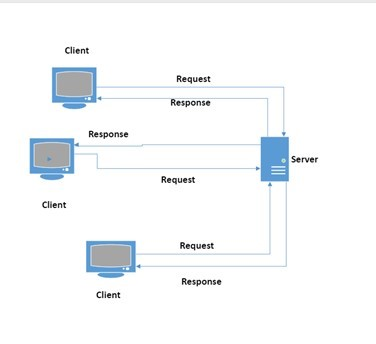
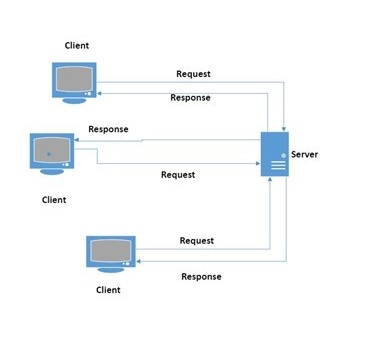
technische_grundlagen_text
Text zu technischen Grundlagen hinzugefügt, Bild zu clientserver nur leicht geändert, interaktive Elemente Link zu RSA gebaut und rsa Startseite under construction als Lückenfüller

diff --git a/JavaSpringVorlage-main/src/main/resources/templates/technische_grundlagen.html b/JavaSpringVorlage-main/src/main/resources/templates/technische_grundlagen.html
@@ -30,8 +30,7 @@
 <div class="row">
     <div class="col s6">
         <p>
-            Lorem ipsum dolor sit amet consectetur adipisicing elit. Neque soluta pariatur eligendi, iusto magnam inventore minus autem sunt nostrum illo cumque tempore ullam, consequuntur consequatur a vel officia dolores sit.
-            
+            Der Client sendet eine Anfrage (Request) an einen Sever der Sever antwortet dann (Response). Der Client sendet die Request zum Beispiel in Form einer Webadresse (http-Request) der Server antwortet dann mit HTML oder CSS-Dateien, die vom Client verarbeitet werden und der dann die Website anzeigt.
         </p>
     </div>
     <div class="col s6">
@@ -50,7 +49,11 @@
     <div class="col s6">
         <p>
             <!--Hier kommt der Text rein, lorem ipsum ist nur Fülltext-->
-        Lorem ipsum dolor sit amet consectetur adipisicing elit. Neque soluta pariatur eligendi, iusto magnam inventore minus autem sunt nostrum illo cumque tempore ullam, consequuntur consequatur a vel officia dolores sit.
+            Es gibt zwei Hauptversionen von IP-Adressen, die in Netzwerken verwendet werden: 
+
+            IPv4 (Internet Protocol Version 4): Dies ist die ältere Version von IP-Adressen und verwendet eine 32-Bit-Adresse, um Netzwerkgeräte zu identifizieren. Sie besteht aus vier durch Punkte getrennten Zahlen (z.B. 192.168.1.1). 
+            
+            IPv6 (Internet Protocol Version 6): Dies ist die neuere Version von IP-Adressen, entwickelt, um den wachsenden Bedarf an Adressen zu bewältigen. IPv6 verwendet 128-Bit-Adressen, die in hexadezimaler Form dargestellt werden (z.B. 2001:0db8:85a3:0000:0000:8a2e:0370:7334). 
             
         </p>
     </div>
@@ -65,8 +68,8 @@
     <div class="col s6">
         <p>
             <!--Hier kommt der Text rein, lorem ipsum ist nur Fülltext-->
-        Lorem ipsum dolor sit amet consectetur adipisicing elit. Neque soluta pariatur eligendi, iusto magnam inventore minus autem sunt nostrum illo cumque tempore ullam, consequuntur consequatur a vel officia dolores sit.
-            
+            In Netzwerken bezieht sich das Wort "Protokoll" auf eine Reihe von Regeln und Vereinbarungen, die festlegen, wie Daten zwischen Geräten in einem Netzwerk ausgetauscht werden. Protokolle definieren das Format der Daten, die Reihenfolge der Übertragung, Fehlerbehandlung und andere Aspekte der Kommunikation. 
+            Beispiele: HTTP (Hypertext Transfer Protocol) oder TCP (Transmission Control Protocol)
         </p>
     </div>
     <div class="col s6">
@@ -82,8 +85,9 @@
     <div class="col s6">
         <p>
             <!--Hier kommt der Text rein, lorem ipsum ist nur Fülltext-->
-        Lorem ipsum dolor sit amet consectetur adipisicing elit. Neque soluta pariatur eligendi, iusto magnam inventore minus autem sunt nostrum illo cumque tempore ullam, consequuntur consequatur a vel officia dolores sit.
-            
+            Dient als Verbindungspunkt zwischen dem lokalen Netzwerk und dem Internet. 
+            Der Router sorgt dafür das die Datenpakete an die richtige IP-Adresse kommen und bietet parallel einen kabelgebundenen als auch drahtlosen Zugang.
+            Dabei unterscheidet man zwischen vielen verschiedenen Arten, etwa einem Backbone-Router, Hardware-Router, Border-Router, High-End-Switches, Software-Router, Virtuelle Router oder einem DSL-Router. 
         </p>
     </div>
     <div class="col s6">
@@ -99,8 +103,9 @@
     <div class="col s6">
         <p>
             <!--Hier kommt der Text rein, lorem ipsum ist nur Fülltext-->
-        Lorem ipsum dolor sit amet consectetur adipisicing elit. Neque soluta pariatur eligendi, iusto magnam inventore minus autem sunt nostrum illo cumque tempore ullam, consequuntur consequatur a vel officia dolores sit.
-            
+            Ein Switch wird zur direkten Weiterleitung eines Datenpacketes an einen spezifischen Empfänger genutzt, indem er die MAC-Adresse zuordnet und sich die passenden Wege merken kann. Dadurch ist er effizienter und kann ohne Probleme mehrere Geräte gleichzeitig kommunizieren lassen.
+            Ein Hub hingegen sendet die empfangenen Daten immer an alle angeschlossenen Geräte, was allerdings sowohl wegen Sicherheitsbedenken als auch wegen der geringen Belastbarkeit des Gerätes wenig genutzt wird.
+
         </p>
     </div>
     <div class="col s6">
@@ -116,8 +121,7 @@
     <div class="col s6">
         <p>
             <!--Hier kommt der Text rein, lorem ipsum ist nur Fülltext-->
-        Lorem ipsum dolor sit amet consectetur adipisicing elit. Neque soluta pariatur eligendi, iusto magnam inventore minus autem sunt nostrum illo cumque tempore ullam, consequuntur consequatur a vel officia dolores sit.
-            
+            LAN (Local Area Network) kann Daten nur mithilfe eines Kabels übertragen, WLAN (Wireless Local Area Network) überträgt die Daten kabellos per Funk. Dabei bietet LAN eine schnellere und sichere Verbindung, ist allerdings auf einen lokalen Bereich begrenzt. WLAN hingegen ermöglicht es den Geräten, ohne Kabel Internetzugang zu erlangen, ist allerdings auch anfälliger für Störungen und bietet oft eine eingeschränkte Geschwindigkeit im Gegensatz zu einem Kabelanschluss.
         </p>
     </div>
     <div class="col s6">
@@ -133,7 +137,7 @@
     <div class="col s6">
         <p>
             <!--Hier kommt der Text rein, lorem ipsum ist nur Fülltext-->
-        Lorem ipsum dolor sit amet consectetur adipisicing elit. Neque soluta pariatur eligendi, iusto magnam inventore minus autem sunt nostrum illo cumque tempore ullam, consequuntur consequatur a vel officia dolores sit.
+            DHCP (Dynamic Host Configuration Protocol) ist ein Netzwerkprotokoll, das automatisch IP-Adressen und andere Netzwerkkonfigurationen an Geräte in einem Netzwerk verteilt. Statt manuell IP-Adressen einzugeben, können Geräte im Netzwerk mithilfe von DHCP dynamisch temporäre IP-Adressen zugewiesen bekommen, wenn sie sich mit dem Netzwerk verbinden. 
             
         </p>
     </div>
@@ -150,7 +154,7 @@
     <div class="col s6">
         <p>
             <!--Hier kommt der Text rein, lorem ipsum ist nur Fülltext-->
-        Lorem ipsum dolor sit amet consectetur adipisicing elit. Neque soluta pariatur eligendi, iusto magnam inventore minus autem sunt nostrum illo cumque tempore ullam, consequuntur consequatur a vel officia dolores sit.
+            Ein Gateway stellt die Schnittstelle zwischen unterschiedlichen Netzwerken dar und ermöglicht den Datenverkehr zwischen ihnen. Es fungiert als Übersetzer zwischen unterschiedlichen Protokollen, Netzwerktypen oder Topologien. Ein Gateway kann auf verschiedenen Ebenen arbeiten, z. B. auf der Anwendungsschicht, der Transport- oder der Netzwerkschicht. 
             
         </p>
     </div>
@@ -167,7 +171,7 @@
     <div class="col s6">
         <p>
             <!--Hier kommt der Text rein, lorem ipsum ist nur Fülltext-->
-        Lorem ipsum dolor sit amet consectetur adipisicing elit. Neque soluta pariatur eligendi, iusto magnam inventore minus autem sunt nostrum illo cumque tempore ullam, consequuntur consequatur a vel officia dolores sit.
+            Ein Port ist eine numerische Kennung, die verwendet wird, um bestimmte Dienste oder Anwendungen in einem Computernetzwerk zu identifizieren. Ports ermöglichen es mehreren Anwendungen auf demselben Gerät, gleichzeitig Netzwerkverbindungen herzustellen, da der Datenverkehr anhand der Kombination aus IP-Adresse und Portnummer geroutet wird. Dabei sind einige Portnummern bereits für festgelegte Dienste reserviert, welche standardisiert etwa zum Beispiel für verschlüsselte und unverschlüsselte Internetkommunikation verwendet werden.
             
         </p>
     </div>
@@ -184,7 +188,7 @@
     <div class="col s6">
         <p>
             <!--Hier kommt der Text rein, lorem ipsum ist nur Fülltext-->
-        Lorem ipsum dolor sit amet consectetur adipisicing elit. Neque soluta pariatur eligendi, iusto magnam inventore minus autem sunt nostrum illo cumque tempore ullam, consequuntur consequatur a vel officia dolores sit.
+            DNS (Domain Name System) ist ein System, das den Namen von Domänen (Webadressen) in numerische IP-Adressen umwandelt, die von Computern im Netzwerk verwendet werden. Eine Domain ist eine hierarchische Namensstruktur, die URLs (Uniform Resource Locators) in eine für Computer verständliche Form übersetzt. Dabei wird die Domain jeweils zum nächsten DNS-Server weitergeleitet, bis die Adresse in einem Verzeichnis auftaucht und übersetzt werden kann.
             
         </p>
     </div>
@@ -201,7 +205,7 @@
     <div class="col s6">
         <p>
             <!--Hier kommt der Text rein, lorem ipsum ist nur Fülltext-->
-        Lorem ipsum dolor sit amet consectetur adipisicing elit. Neque soluta pariatur eligendi, iusto magnam inventore minus autem sunt nostrum illo cumque tempore ullam, consequuntur consequatur a vel officia dolores sit.
+            Routing bezieht sich auf den Prozess der Auswahl von Wegen für den Datenverkehr in einem Netzwerk. Dabei werden Routingtabellen verwendet, die Informationen darüber enthalten, wie Datenpakete von einem Netzwerksegment zum anderen weitergeleitet werden sollen. Diese Tabellen enthalten Einträge mit Zielnetzwerken, den nächsten Hops und möglicherweise Metriken, um den besten Weg zu bestimmen.
             
         </p>
     </div>
@@ -218,7 +222,7 @@
     <div class="col s6">
         <p>
             <!--Hier kommt der Text rein, lorem ipsum ist nur Fülltext-->
-        Lorem ipsum dolor sit amet consectetur adipisicing elit. Neque soluta pariatur eligendi, iusto magnam inventore minus autem sunt nostrum illo cumque tempore ullam, consequuntur consequatur a vel officia dolores sit.
+            Das ISO/OSI-Modell steht für das Internationale Standardisierungsorganisation / Open Systems Interconnection Modell. Es ist eine theoretische Grundlage für die Entwicklung von Netzwerkprotokollen und -architekturen. Das Modell unterteilt die Kommunikation in sieben Schichten, von der physischen Übertragung bis zur Anwendungsebene, wobei jede Schicht spezifische Aufgaben und Verantwortlichkeiten hat. 
             
         </p>
     </div>
@@ -235,7 +239,7 @@
     <div class="col s6">
         <p>
             <!--Hier kommt der Text rein, lorem ipsum ist nur Fülltext-->
-        Lorem ipsum dolor sit amet consectetur adipisicing elit. Neque soluta pariatur eligendi, iusto magnam inventore minus autem sunt nostrum illo cumque tempore ullam, consequuntur consequatur a vel officia dolores sit.
+            Netztopologien beschreiben die physische oder logische Anordnung von Netzwerkgeräten und -verbindungen. Es gibt verschiedene Topologien, darunter Bus, Stern, Ring, Mesh, Baum und Hybrid. Diese Topologien bestimmen, wie Geräte im Netzwerk miteinander verbunden sind und wie Daten fließen.
             
         </p>
     </div>

diff --git a/JavaSpringVorlage-main/target/classes/templates/technische_grundlagen.html b/JavaSpringVorlage-main/target/classes/templates/technische_grundlagen.html
@@ -30,8 +30,7 @@
 <div class="row">
     <div class="col s6">
         <p>
-            Lorem ipsum dolor sit amet consectetur adipisicing elit. Neque soluta pariatur eligendi, iusto magnam inventore minus autem sunt nostrum illo cumque tempore ullam, consequuntur consequatur a vel officia dolores sit.
-            
+            Der Client sendet eine Anfrage (Request) an einen Sever der Sever antwortet dann (Response). Der Client sendet die Request zum Beispiel in Form einer Webadresse (http-Request) der Server antwortet dann mit HTML oder CSS-Dateien, die vom Client verarbeitet werden und der dann die Website anzeigt.
         </p>
     </div>
     <div class="col s6">
@@ -50,7 +49,11 @@
     <div class="col s6">
         <p>
             <!--Hier kommt der Text rein, lorem ipsum ist nur Fülltext-->
-        Lorem ipsum dolor sit amet consectetur adipisicing elit. Neque soluta pariatur eligendi, iusto magnam inventore minus autem sunt nostrum illo cumque tempore ullam, consequuntur consequatur a vel officia dolores sit.
+            Es gibt zwei Hauptversionen von IP-Adressen, die in Netzwerken verwendet werden: 
+
+            IPv4 (Internet Protocol Version 4): Dies ist die ältere Version von IP-Adressen und verwendet eine 32-Bit-Adresse, um Netzwerkgeräte zu identifizieren. Sie besteht aus vier durch Punkte getrennten Zahlen (z.B. 192.168.1.1). 
+            
+            IPv6 (Internet Protocol Version 6): Dies ist die neuere Version von IP-Adressen, entwickelt, um den wachsenden Bedarf an Adressen zu bewältigen. IPv6 verwendet 128-Bit-Adressen, die in hexadezimaler Form dargestellt werden (z.B. 2001:0db8:85a3:0000:0000:8a2e:0370:7334). 
             
         </p>
     </div>
@@ -65,8 +68,8 @@
     <div class="col s6">
         <p>
             <!--Hier kommt der Text rein, lorem ipsum ist nur Fülltext-->
-        Lorem ipsum dolor sit amet consectetur adipisicing elit. Neque soluta pariatur eligendi, iusto magnam inventore minus autem sunt nostrum illo cumque tempore ullam, consequuntur consequatur a vel officia dolores sit.
-            
+            In Netzwerken bezieht sich das Wort "Protokoll" auf eine Reihe von Regeln und Vereinbarungen, die festlegen, wie Daten zwischen Geräten in einem Netzwerk ausgetauscht werden. Protokolle definieren das Format der Daten, die Reihenfolge der Übertragung, Fehlerbehandlung und andere Aspekte der Kommunikation. 
+            Beispiele: HTTP (Hypertext Transfer Protocol) oder TCP (Transmission Control Protocol)
         </p>
     </div>
     <div class="col s6">
@@ -82,8 +85,9 @@
     <div class="col s6">
         <p>
             <!--Hier kommt der Text rein, lorem ipsum ist nur Fülltext-->
-        Lorem ipsum dolor sit amet consectetur adipisicing elit. Neque soluta pariatur eligendi, iusto magnam inventore minus autem sunt nostrum illo cumque tempore ullam, consequuntur consequatur a vel officia dolores sit.
-            
+            Dient als Verbindungspunkt zwischen dem lokalen Netzwerk und dem Internet. 
+            Der Router sorgt dafür das die Datenpakete an die richtige IP-Adresse kommen und bietet parallel einen kabelgebundenen als auch drahtlosen Zugang.
+            Dabei unterscheidet man zwischen vielen verschiedenen Arten, etwa einem Backbone-Router, Hardware-Router, Border-Router, High-End-Switches, Software-Router, Virtuelle Router oder einem DSL-Router. 
         </p>
     </div>
     <div class="col s6">
@@ -99,8 +103,9 @@
     <div class="col s6">
         <p>
             <!--Hier kommt der Text rein, lorem ipsum ist nur Fülltext-->
-        Lorem ipsum dolor sit amet consectetur adipisicing elit. Neque soluta pariatur eligendi, iusto magnam inventore minus autem sunt nostrum illo cumque tempore ullam, consequuntur consequatur a vel officia dolores sit.
-            
+            Ein Switch wird zur direkten Weiterleitung eines Datenpacketes an einen spezifischen Empfänger genutzt, indem er die MAC-Adresse zuordnet und sich die passenden Wege merken kann. Dadurch ist er effizienter und kann ohne Probleme mehrere Geräte gleichzeitig kommunizieren lassen.
+            Ein Hub hingegen sendet die empfangenen Daten immer an alle angeschlossenen Geräte, was allerdings sowohl wegen Sicherheitsbedenken als auch wegen der geringen Belastbarkeit des Gerätes wenig genutzt wird.
+
         </p>
     </div>
     <div class="col s6">
@@ -116,8 +121,7 @@
     <div class="col s6">
         <p>
             <!--Hier kommt der Text rein, lorem ipsum ist nur Fülltext-->
-        Lorem ipsum dolor sit amet consectetur adipisicing elit. Neque soluta pariatur eligendi, iusto magnam inventore minus autem sunt nostrum illo cumque tempore ullam, consequuntur consequatur a vel officia dolores sit.
-            
+            LAN (Local Area Network) kann Daten nur mithilfe eines Kabels übertragen, WLAN (Wireless Local Area Network) überträgt die Daten kabellos per Funk. Dabei bietet LAN eine schnellere und sichere Verbindung, ist allerdings auf einen lokalen Bereich begrenzt. WLAN hingegen ermöglicht es den Geräten, ohne Kabel Internetzugang zu erlangen, ist allerdings auch anfälliger für Störungen und bietet oft eine eingeschränkte Geschwindigkeit im Gegensatz zu einem Kabelanschluss.
         </p>
     </div>
     <div class="col s6">
@@ -133,7 +137,7 @@
     <div class="col s6">
         <p>
             <!--Hier kommt der Text rein, lorem ipsum ist nur Fülltext-->
-        Lorem ipsum dolor sit amet consectetur adipisicing elit. Neque soluta pariatur eligendi, iusto magnam inventore minus autem sunt nostrum illo cumque tempore ullam, consequuntur consequatur a vel officia dolores sit.
+            DHCP (Dynamic Host Configuration Protocol) ist ein Netzwerkprotokoll, das automatisch IP-Adressen und andere Netzwerkkonfigurationen an Geräte in einem Netzwerk verteilt. Statt manuell IP-Adressen einzugeben, können Geräte im Netzwerk mithilfe von DHCP dynamisch temporäre IP-Adressen zugewiesen bekommen, wenn sie sich mit dem Netzwerk verbinden. 
             
         </p>
     </div>
@@ -150,7 +154,7 @@
     <div class="col s6">
         <p>
             <!--Hier kommt der Text rein, lorem ipsum ist nur Fülltext-->
-        Lorem ipsum dolor sit amet consectetur adipisicing elit. Neque soluta pariatur eligendi, iusto magnam inventore minus autem sunt nostrum illo cumque tempore ullam, consequuntur consequatur a vel officia dolores sit.
+            Ein Gateway stellt die Schnittstelle zwischen unterschiedlichen Netzwerken dar und ermöglicht den Datenverkehr zwischen ihnen. Es fungiert als Übersetzer zwischen unterschiedlichen Protokollen, Netzwerktypen oder Topologien. Ein Gateway kann auf verschiedenen Ebenen arbeiten, z. B. auf der Anwendungsschicht, der Transport- oder der Netzwerkschicht. 
             
         </p>
     </div>
@@ -167,7 +171,7 @@
     <div class="col s6">
         <p>
             <!--Hier kommt der Text rein, lorem ipsum ist nur Fülltext-->
-        Lorem ipsum dolor sit amet consectetur adipisicing elit. Neque soluta pariatur eligendi, iusto magnam inventore minus autem sunt nostrum illo cumque tempore ullam, consequuntur consequatur a vel officia dolores sit.
+            Ein Port ist eine numerische Kennung, die verwendet wird, um bestimmte Dienste oder Anwendungen in einem Computernetzwerk zu identifizieren. Ports ermöglichen es mehreren Anwendungen auf demselben Gerät, gleichzeitig Netzwerkverbindungen herzustellen, da der Datenverkehr anhand der Kombination aus IP-Adresse und Portnummer geroutet wird. Dabei sind einige Portnummern bereits für festgelegte Dienste reserviert, welche standardisiert etwa zum Beispiel für verschlüsselte und unverschlüsselte Internetkommunikation verwendet werden.
             
         </p>
     </div>
@@ -184,7 +188,7 @@
     <div class="col s6">
         <p>
             <!--Hier kommt der Text rein, lorem ipsum ist nur Fülltext-->
-        Lorem ipsum dolor sit amet consectetur adipisicing elit. Neque soluta pariatur eligendi, iusto magnam inventore minus autem sunt nostrum illo cumque tempore ullam, consequuntur consequatur a vel officia dolores sit.
+            DNS (Domain Name System) ist ein System, das den Namen von Domänen (Webadressen) in numerische IP-Adressen umwandelt, die von Computern im Netzwerk verwendet werden. Eine Domain ist eine hierarchische Namensstruktur, die URLs (Uniform Resource Locators) in eine für Computer verständliche Form übersetzt. Dabei wird die Domain jeweils zum nächsten DNS-Server weitergeleitet, bis die Adresse in einem Verzeichnis auftaucht und übersetzt werden kann.
             
         </p>
     </div>
@@ -201,7 +205,7 @@
     <div class="col s6">
         <p>
             <!--Hier kommt der Text rein, lorem ipsum ist nur Fülltext-->
-        Lorem ipsum dolor sit amet consectetur adipisicing elit. Neque soluta pariatur eligendi, iusto magnam inventore minus autem sunt nostrum illo cumque tempore ullam, consequuntur consequatur a vel officia dolores sit.
+            Routing bezieht sich auf den Prozess der Auswahl von Wegen für den Datenverkehr in einem Netzwerk. Dabei werden Routingtabellen verwendet, die Informationen darüber enthalten, wie Datenpakete von einem Netzwerksegment zum anderen weitergeleitet werden sollen. Diese Tabellen enthalten Einträge mit Zielnetzwerken, den nächsten Hops und möglicherweise Metriken, um den besten Weg zu bestimmen.
             
         </p>
     </div>
@@ -218,7 +222,7 @@
     <div class="col s6">
         <p>
             <!--Hier kommt der Text rein, lorem ipsum ist nur Fülltext-->
-        Lorem ipsum dolor sit amet consectetur adipisicing elit. Neque soluta pariatur eligendi, iusto magnam inventore minus autem sunt nostrum illo cumque tempore ullam, consequuntur consequatur a vel officia dolores sit.
+            Das ISO/OSI-Modell steht für das Internationale Standardisierungsorganisation / Open Systems Interconnection Modell. Es ist eine theoretische Grundlage für die Entwicklung von Netzwerkprotokollen und -architekturen. Das Modell unterteilt die Kommunikation in sieben Schichten, von der physischen Übertragung bis zur Anwendungsebene, wobei jede Schicht spezifische Aufgaben und Verantwortlichkeiten hat. 
             
         </p>
     </div>
@@ -235,7 +239,7 @@
     <div class="col s6">
         <p>
             <!--Hier kommt der Text rein, lorem ipsum ist nur Fülltext-->
-        Lorem ipsum dolor sit amet consectetur adipisicing elit. Neque soluta pariatur eligendi, iusto magnam inventore minus autem sunt nostrum illo cumque tempore ullam, consequuntur consequatur a vel officia dolores sit.
+            Netztopologien beschreiben die physische oder logische Anordnung von Netzwerkgeräten und -verbindungen. Es gibt verschiedene Topologien, darunter Bus, Stern, Ring, Mesh, Baum und Hybrid. Diese Topologien bestimmen, wie Geräte im Netzwerk miteinander verbunden sind und wie Daten fließen.
             
         </p>
     </div>

diff --git a/JavaSpringVorlage-main/src/main/resources/templates/interaktive_elemente.html b/JavaSpringVorlage-main/src/main/resources/templates/interaktive_elemente.html
@@ -10,7 +10,7 @@
     </div>
     <div class="col s6">
         <h3 id="rsa_verfahren_interaktiv">RSA-Verfahren</h3>
-        <a class="btn-large btn-success mb-3" th:href="@{/?activePage=diffiehellman_choose_p_and_g}">Verfahren starten</a>
+        <a class="btn-large btn-success mb-3" th:href="@{/?activePage=rsaverfahren}">Verfahren starten</a>
     </div>
 </div>
 

diff --git a/JavaSpringVorlage-main/target/classes/templates/interaktive_elemente.html b/JavaSpringVorlage-main/target/classes/templates/interaktive_elemente.html
@@ -10,7 +10,7 @@
     </div>
     <div class="col s6">
         <h3 id="rsa_verfahren_interaktiv">RSA-Verfahren</h3>
-        <a class="btn-large btn-success mb-3" th:href="@{/?activePage=diffiehellman_choose_p_and_g}">Verfahren starten</a>
+        <a class="btn-large btn-success mb-3" th:href="@{/?activePage=rsaverfahren}">Verfahren starten</a>
     </div>
 </div>
 

diff --git a/JavaSpringVorlage-main/src/main/resources/templates/rsaverfahren.html b/JavaSpringVorlage-main/src/main/resources/templates/rsaverfahren.html
@@ -1,0 +1,12 @@
+<h1>RSA Verfahren</h1>
+<hr>
+
+<h1>
+    Under Construction
+</h1>
+
+<h1></h1>
+
+<a class="btn btn-success mb-3" th:href="@{/?activePage=interaktive_elemente}">Zurück</a>
+
+<a class="btn btn-success mb-3" th:href="@{/?activePage=sicherheit#rsa_verfahren}">Sicherheit: RSA Verfahren</a>

diff --git a/JavaSpringVorlage-main/target/classes/templates/rsaverfahren.html b/JavaSpringVorlage-main/target/classes/templates/rsaverfahren.html
@@ -1,0 +1,12 @@
+<h1>RSA Verfahren</h1>
+<hr>
+
+<h1>
+    Under Construction
+</h1>
+
+<h1></h1>
+
+<a class="btn btn-success mb-3" th:href="@{/?activePage=interaktive_elemente}">Zurück</a>
+
+<a class="btn btn-success mb-3" th:href="@{/?activePage=sicherheit#rsa_verfahren}">Sicherheit: RSA Verfahren</a>
